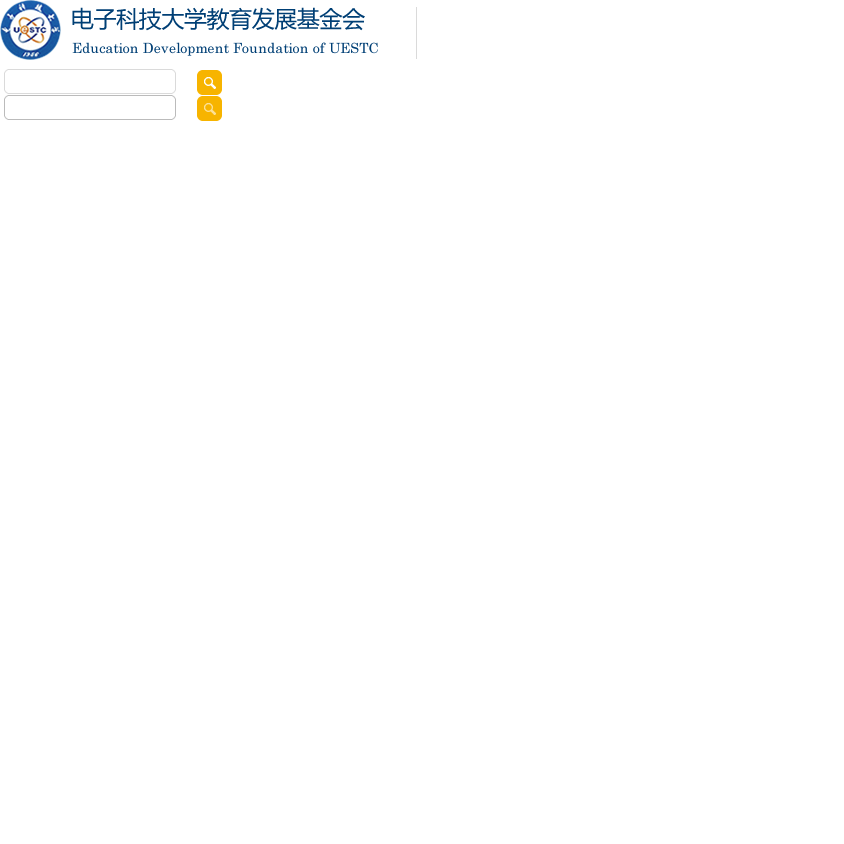
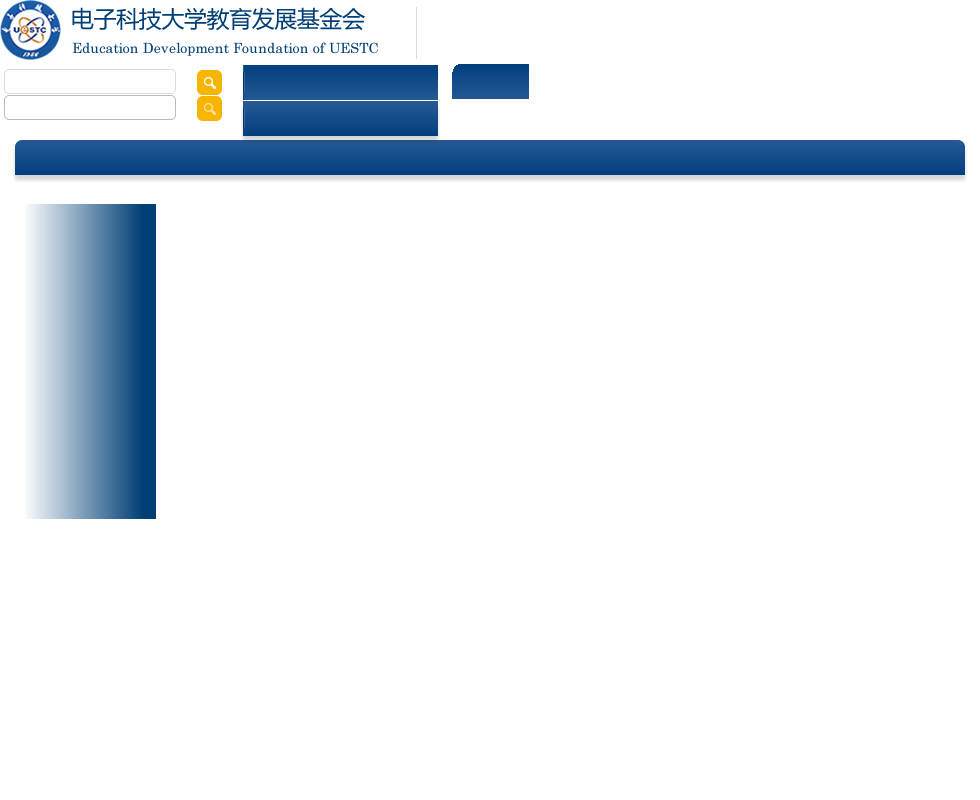
update

Changed region(s): [[0.0, 0.0, 0.9858, 0.6562]]

diff --git a/css/common.less b/css/common.less
@@ -8,6 +8,10 @@
 @import 'bootstrap.min.css';
 
 // 预定义样式
+.clear {
+    clear: both;
+}
+
 .opacity ( @num : 50 ) {
     opacity: @num / 100;
     filter: alpha(opacity=@num);
@@ -41,7 +45,7 @@
 @inner-width: 950px;
 
 body {
-    background: url(../../images/body-bg.png) top repeat-x;
+    background: #fff url('@{img}body-bg.png') top repeat-x;
 }
 
 .wrap {
@@ -58,7 +62,7 @@ body {
     margin:0 auto;
     padding-top: 19px;
 
-    background: #FFF;
+    background: #fff;
 
     .logo {
         width: 417px;
@@ -76,7 +80,7 @@ body {
     .search {
         float: left;
 
-        padding: 10px 0 0 15px;
+        padding: 36px 0 0 15px;
 
         label {
             float: left;
@@ -108,16 +112,20 @@ body {
 
         #search-input {
             width: 162px;
-            height: 21px;
+            height: 25px;
 
             float: left;
 
-            padding: 2px 5px 2px 5px;
+            padding: 0 5px 0 5px;
 
             border: none;
 
+            overflow: hidden;
+
             background: url('@{img}image.png') no-repeat center;
             background-position: -4px -69px;
+
+            line-height: 25px;
 
             &:hover {
                 background-position: -4px -95px;
@@ -129,5 +137,92 @@ body {
                 background-position: -4px -95px;
             }
         } 
+    } // END search
+
+    // 头部导航菜单
+    .menu {
+        width: @inner-width;
+        height: 43px;
+
+        margin-top: 11px;
+
+        clear: both;
+
+        position: relative;
+        top: 11px;
+
+        background: url('@{img}image.png') no-repeat center;
+        background-position: -15px -140px;
+
+        ul {
+            margin: 0;
+        }
+
+        li {
+            float: left;
+
+            list-style: none;
+
+            &:first-child a {
+                padding-left: 30px;
+
+                background: none;
+            }
+
+            &:first-child a:hover {
+                background: url('@{img}image.png') no-repeat center;
+                background-position: -452px -64px;
+            }
+        }
+
+        a {
+            height: 34px;
+
+            float: left;
+
+            padding-left: 20px;
+            padding-right: 20px;
+
+            background: url('@{img}image.png') no-repeat center left;
+            background-position: -243px -101px;
+
+            line-height: 35px;
+            color: #fff;
+            font-size: 12px;
+
+            &:hover {
+                background-position: -243px -65px;
+
+                text-decoration: none;
+            }
+        }
+
+    } // END menu
+
+} // END header
+
+// 主体
+#main {
+    width: @base-width;
+    height: 600px;
+
+    background: #fff;
+
+    .wrap {
+        width: @inner-width;
     }
+    
+    // Slide以及新闻动态
+    .big-board {
+    width: @inner-width;
+    height: 315px;
+
+    background: #003F75;
+    }
+}
+
+// Slide
+#big-slide {
+    width: 475px;
+    height: 315px;
 }

diff --git a/css/build/common.css b/css/build/common.css
@@ -1,9 +1,17 @@
 @import 'bootstrap.min.css';
-body{background:url(../../images/body-bg.png) top repeat-x;}
+.clear{clear:both;}
+body{background:#ffffff url('../../images/body-bg.png') top repeat-x;}
 .wrap{width:980px;margin:0 auto;}
-#header{width:950px;height:116px;margin:0 auto;padding-top:19px;background:#FFF;}#header .logo{width:417px;height:60px;display:block;float:left;background:url('../../images/image.png') no-repeat center;background-position:0 0;}
-#header .search{float:left;padding:10px 0 0 15px;}#header .search label{float:left;padding-right:13px;line-height:25px;font-size:12px;color:#878787;}
+#header{width:950px;height:116px;margin:0 auto;padding-top:19px;background:#fff;}#header .logo{width:417px;height:60px;display:block;float:left;background:url('../../images/image.png') no-repeat center;background-position:0 0;}
+#header .search{float:left;padding:36px 0 0 15px;}#header .search label{float:left;padding-right:13px;line-height:25px;font-size:12px;color:#878787;}
 #header .search button{width:25px;height:25px;float:left;margin-left:7px;border:none;background:url('../../images/image.png') no-repeat center;background-position:-197px -70px;}#header .search button:hover{background-position:-197px -96px;}
-#header .search #search-input{width:162px;height:21px;float:left;padding:2px 5px 2px 5px;border:none;background:url('../../images/image.png') no-repeat center;background-position:-4px -69px;}#header .search #search-input:hover{background-position:-4px -95px;}
+#header .search #search-input{width:162px;height:25px;float:left;padding:0 5px 0 5px;border:none;overflow:hidden;background:url('../../images/image.png') no-repeat center;background-position:-4px -69px;line-height:25px;}#header .search #search-input:hover{background-position:-4px -95px;}
 #header .search #search-input:focus{background-position:-4px -95px;}
 #header .search #search-input:active{background-position:-4px -95px;}
+#header .menu{width:950px;height:43px;margin-top:11px;clear:both;position:relative;top:11px;background:url('../../images/image.png') no-repeat center;background-position:-15px -140px;}#header .menu ul{margin:0;}
+#header .menu li{float:left;list-style:none;}#header .menu li:first-child a{padding-left:30px;background:none;}
+#header .menu li:first-child a:hover{background:url('../../images/image.png') no-repeat center;background-position:-452px -64px;}
+#header .menu a{height:34px;float:left;padding-left:20px;padding-right:20px;background:url('../../images/image.png') no-repeat center left;background-position:-243px -101px;line-height:35px;color:#fff;font-size:12px;}#header .menu a:hover{background-position:-243px -65px;text-decoration:none;}
+#main{width:980px;height:600px;background:#fff;}#main .wrap{width:950px;}
+#main .big-board{width:950px;height:315px;background:#003F75;}
+#big-slide{width:475px;height:315px;}

diff --git a/module/ie/ie.js b/module/ie/ie.js
@@ -36,25 +36,8 @@
                 this.DD_belatedPNG = DD_belatedPNG;
 
                 DD_belatedPNG.fix(
-                    '#header #logo,' +
-                    ' #header #menu .on,' +
-                    '#header #menu .cell_line,' +
-                    '.tougao,' +
-                    '#header_big_nav .cell .on,' +
-                    '#search,' +
-                    '#slide .bar li.item,' +
-                    '#slide .bar li.on,' +
-                    '#slide .bar .play,' +
-                    '#slide .bar .stop,' +
-                    '#slide .bar,' +
-                    '.home_page .side_bar .cell .date,' +
-                    '#header #menu,' +
-                    '#footer .cell,' +
-                    '#contribute-top-menu,' +
-                    '#fw #main #side_bar,' +
-                    '#contribute-image-upload-block button,' +
-                    '#contribute-editor-attachment-button,' +
-                    '#fw #header .menu .arr'
+                    '#header .menu,' +
+                    '#header .first-menu-cell'
                 );
 
                 $(".apps img").each( function () {
@@ -63,4 +46,10 @@
 
             });
         } // END png fix
+
+        // 菜单first-child
+        if ( $("#header .menu")[0] ) {
+            $("#header .menu a").eq(0).addClass('first-menu-cell');
+        }
+
     });// END define

diff --git a/module/ie/ie.css b/module/ie/ie.css
@@ -30,3 +30,20 @@
 #header .search button {
     _display: inline;
 }
+
+/* 菜单 first-child */
+#header .first-menu-cell {
+    padding-left: 30px!IMPORTANT;
+
+    background-position: 100px 100px!IMPORTANT;
+}
+
+#header .first-menu-cell:hover {
+    background-position: -452px -64px!IMPORTANT;
+}
+
+/* IE9 神秘BUG */
+:root #main {
+    position: relative;
+    top: -1px;
+}
